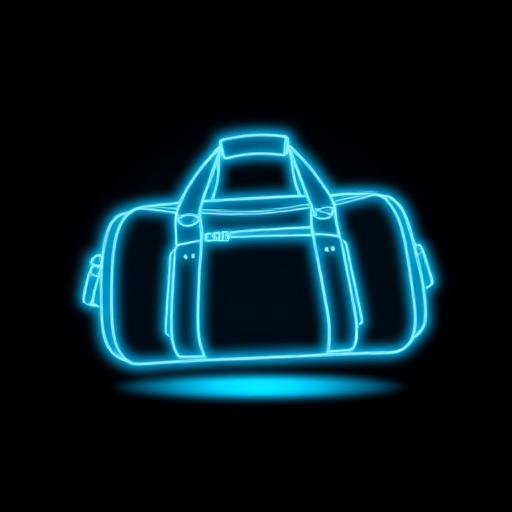
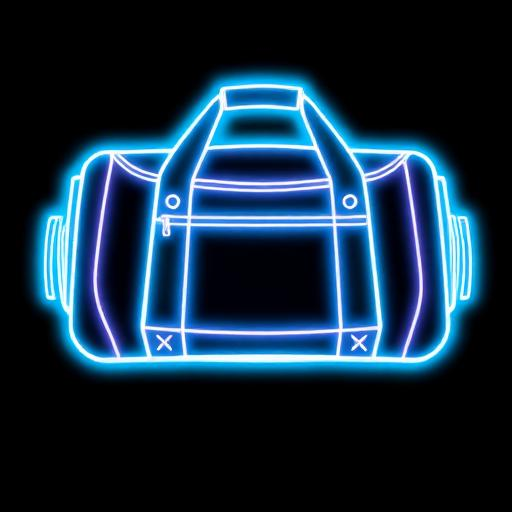
Changes

diff --git a/src/pages/FisiqueChallenge.tsx b/src/pages/FisiqueChallenge.tsx
@@ -17,7 +17,7 @@ import {
   MessageCircle,
   Clock,
 } from "lucide-react";
-import garminWatch from "@/assets/garmin-vivoactive5.png";
+import prizeWatch from "@/assets/prize-watch.png";
 import heroGym from "@/assets/hero-gym-optimized.webp";
 import prizeSneaker from "@/assets/prize-sneaker.png";
 import prizeGymBag from "@/assets/prize-gymbag.png";
@@ -122,7 +122,7 @@ const FisiqueChallenge = () => {
               <div className="grid grid-cols-3 gap-2 md:gap-4 items-end">
                 {/* 2nd Place */}
                 <div className="flex flex-col items-center">
-                  <img src={prizeSneaker} alt="Sportswear prize" className="w-16 h-16 md:w-20 md:h-20 mb-2 drop-shadow-[0_0_20px_hsl(186_68%_45%/0.4)]" />
+                  <img src={prizeSneaker} alt="Sportswear prize" className="w-16 h-16 md:w-20 md:h-20 mb-2 mix-blend-screen drop-shadow-[0_0_20px_hsl(186_68%_45%/0.4)]" />
                   <div className="w-full rounded-xl p-3 md:p-5 text-center flex flex-col justify-center border-2 border-[hsl(0_0%_65%/0.5)] bg-gradient-to-b from-[hsl(0_0%_50%/0.1)] to-[hsl(0_0%_30%/0.15)] shadow-[inset_0_1px_0_hsl(0_0%_80%/0.2),0_0_20px_hsl(0_0%_60%/0.1)]">
                     <p className="text-xs md:text-sm font-bold text-foreground uppercase tracking-wide">2<sup>nd</sup> Place</p>
                     <p className="text-[11px] text-muted-foreground mt-1 leading-tight">Premium Sportswear Voucher</p>
@@ -133,8 +133,8 @@ const FisiqueChallenge = () => {
                 {/* 1st Place - Grand Prize */}
                 <div className="flex flex-col items-center -mt-4">
                   <div className="relative w-20 h-20 md:w-28 md:h-28 mx-auto mb-2">
-                    <div className="absolute inset-0 rounded-full bg-[hsl(45_80%_55%/0.2)] animate-glow-pulse blur-xl" />
-                    <img src={garminWatch} alt="Fitness Tracker" className="relative w-full h-full object-contain drop-shadow-[0_0_24px_hsl(45_80%_55%/0.4)]" />
+                    <div className="absolute inset-0 rounded-full bg-[hsl(186_68%_45%/0.2)] animate-glow-pulse blur-xl" />
+                    <img src={prizeWatch} alt="Fitness Tracker" className="relative w-full h-full object-contain mix-blend-screen drop-shadow-[0_0_24px_hsl(186_68%_45%/0.4)]" />
                   </div>
                   <div className="w-full rounded-xl p-3 md:p-6 text-center flex flex-col justify-center border-2 border-[hsl(45_70%_50%/0.6)] bg-gradient-to-b from-[hsl(45_60%_50%/0.12)] to-[hsl(45_50%_30%/0.15)] shadow-[inset_0_1px_0_hsl(45_70%_60%/0.3),0_0_30px_hsl(45_70%_50%/0.15)]">
                     <p className="text-sm md:text-base font-black text-foreground uppercase tracking-wide">Grand Prize</p>
@@ -145,7 +145,7 @@ const FisiqueChallenge = () => {
 
                 {/* 3rd Place */}
                 <div className="flex flex-col items-center">
-                  <img src={prizeGymBag} alt="Gym kit prize" className="w-16 h-16 md:w-20 md:h-20 mb-2 drop-shadow-[0_0_20px_hsl(186_68%_45%/0.4)]" />
+                  <img src={prizeGymBag} alt="Gym kit prize" className="w-16 h-16 md:w-20 md:h-20 mb-2 mix-blend-screen drop-shadow-[0_0_20px_hsl(186_68%_45%/0.4)]" />
                   <div className="w-full rounded-xl p-3 md:p-5 text-center flex flex-col justify-center border-2 border-[hsl(25_50%_45%/0.5)] bg-gradient-to-b from-[hsl(25_50%_45%/0.1)] to-[hsl(25_40%_30%/0.15)] shadow-[inset_0_1px_0_hsl(25_60%_60%/0.2),0_0_20px_hsl(25_50%_45%/0.1)]">
                     <p className="text-xs md:text-sm font-bold text-foreground uppercase tracking-wide">3<sup>rd</sup> Place</p>
                     <p className="text-[11px] text-muted-foreground mt-1 leading-tight">Complete Gym Kit Bundle</p>
